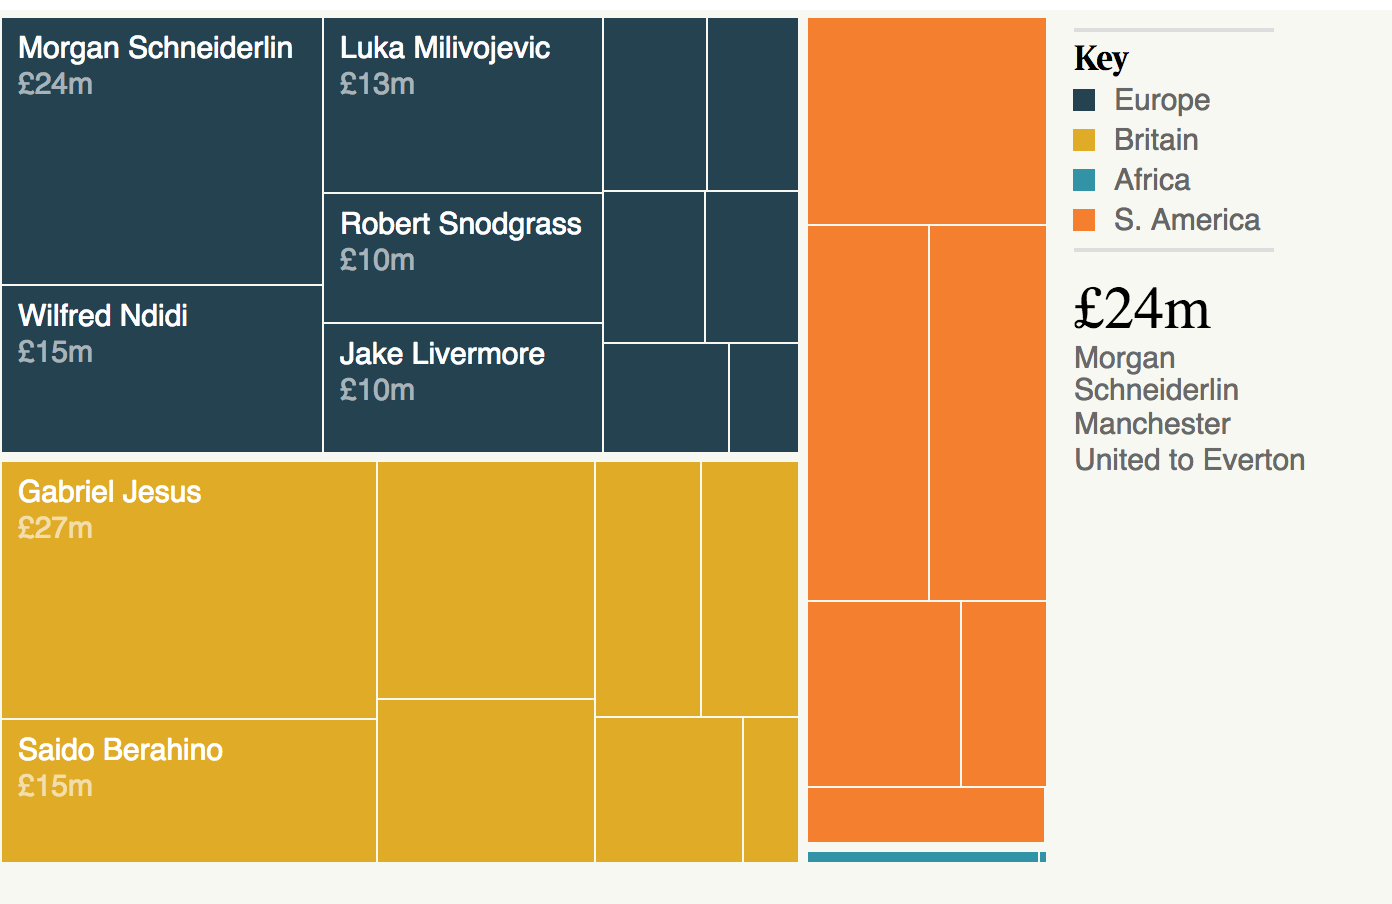
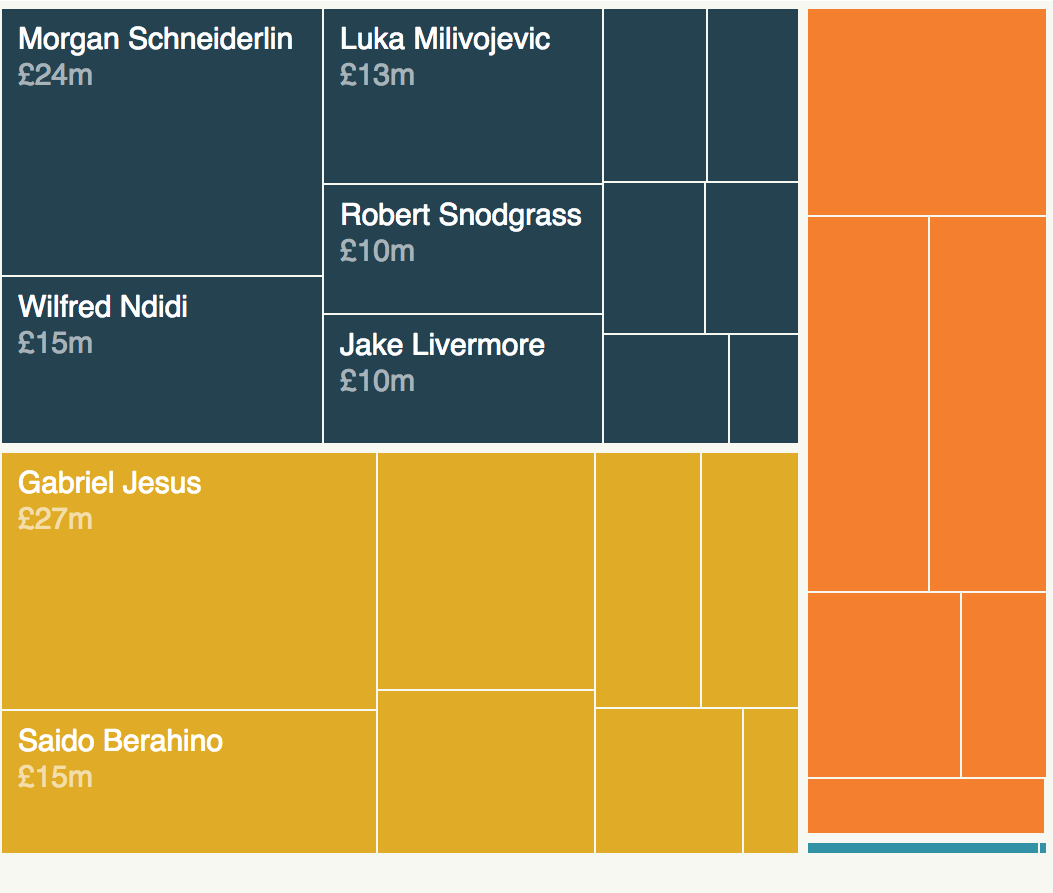
Further matching designs

diff --git a/style.css b/style.css
@@ -27,18 +27,18 @@ body {
 }
 
 .sidebar {
-    width: 30%;
+    width: 25%;
     background-color: #225BA0;
     display: flex;
     flex-direction: column;
     padding-bottom: 5rem;
 }
 .wrapper {
-    width: 70%;
+    width: 75%;
 }
 .sidebar, .wrapper {
-    padding-left: 2rem;
-    padding-right: 2rem;
+    padding-left: 4rem;
+    padding-right: 4rem;
     padding-top: 5rem;
 }
 
@@ -56,12 +56,14 @@ p {
 }
 
 .Headline {
-    color: #1D1D1B;
+    color: #000;
     margin-bottom: 0;
     font-family: "TimesModern-Bold";
-    font-size: 2.6em;
+    font-size: 3.3em;
+    line-height: 1.33;
     width: 100%;
     display: flex;
+    align-items: center;
 }
 
 .Headline iframe {
@@ -70,6 +72,8 @@ p {
 }
 
 .Dip {
+    font-size: 1.8em;
+    font-family: "TimesModern-Regular";
     margin-top: 0;
     margin-bottom: 1em;
     font-size: 1.4em;
@@ -87,18 +91,30 @@ p {
     flex-direction: row;
     flex-wrap: wrap;
     margin-bottom: 2em;
-    background-color: #F8F7F1;
+    margin-top: 3em;
 }
 
 img {
     border-radius: 4px;
+    margin: 0 auto;
+    margin-top: 1em;
 }
 
 .item {
     display: flex;
     flex-direction: column;
     padding: 1em;
+    margin-bottom: 1em;
+    margin-right: 1em;
+    background-color: #F8F7F1;
+    width: 300px;
 }
+
+.chartTitle {
+    font-family: "GillSansMTStd-Medium";
+    font-size: 1em;
+}
+
 
 .section {
     border-top: 1px solid #ddd;
@@ -107,17 +123,20 @@ img {
 
 .Byline {
     font-family: "TimesModern-Regular";
-    font-size: 1.3em;
+    font-size: 1.4em;
     line-height: 1.1em;
     color: #fff;
     -webkit-font-smoothing: antialiased;
-    margin-top: 40em;
     display: flex;
     flex-direction: column;
     border-top: 1px solid #dbdbdb;
     padding-top: .5em;
+    width: 70%;
+    margin: 0 auto;
+    margin-top: 70%;
 }
 .team {
     font-family: "GillSansMTStd-Medium";
     font-size: .8em;
+    font-weight: 300;
 }

diff --git a/app.js b/app.js
@@ -7,6 +7,13 @@ d3.json('index.json', function(error, imgs) {
     .append('div')
     .attr('class', 'item');
 
+  divs
+    .append('div')
+    .text(function(d) {
+      return d.title;
+    })
+    .attr('class', 'chartTitle');
+
   var links = divs
     .append('a')
     .attr('href', function(d) {
@@ -17,11 +24,4 @@ d3.json('index.json', function(error, imgs) {
     .attr('src', function(d) {
       return d.img;
     });
-
-  divs
-    .append('h3')
-    .text(function(d) {
-      return d.title;
-    })
-    .attr('class', 'Item-headline Headline--s');
 });
